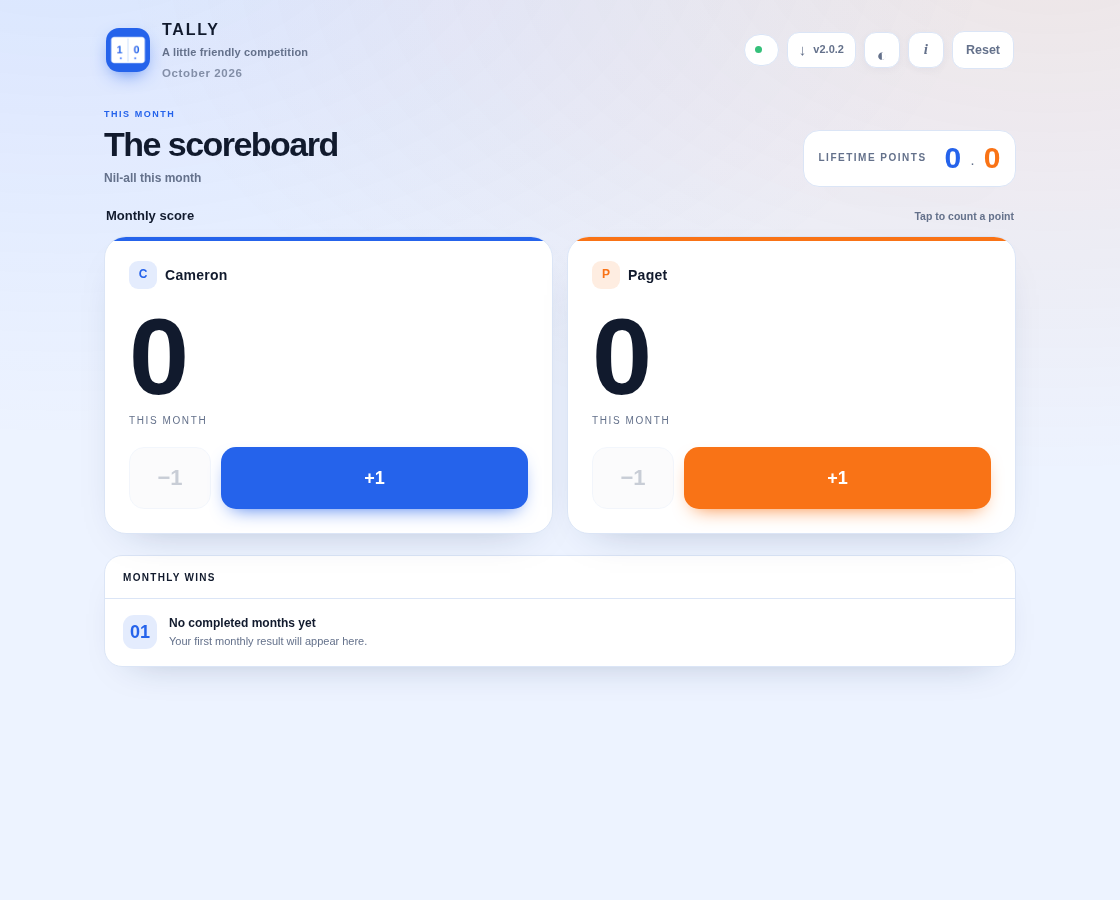
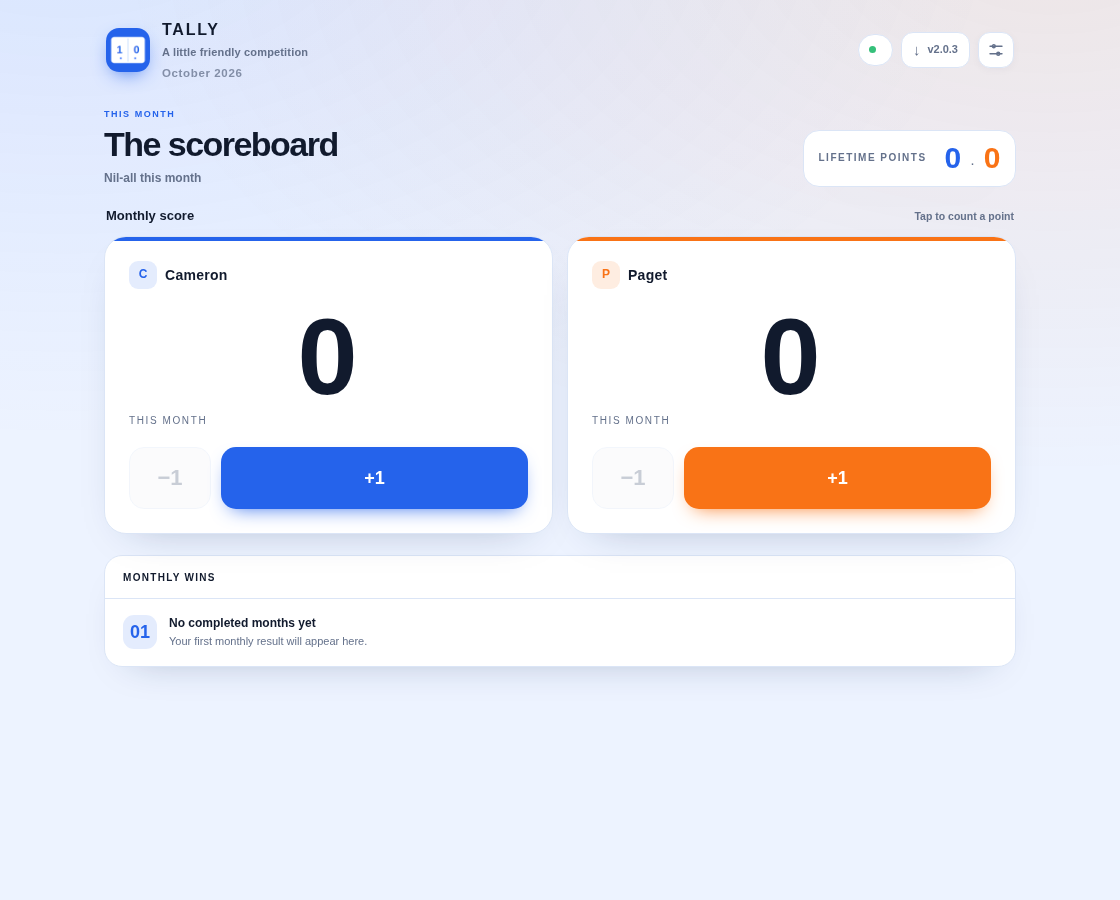
2.0.3: consolidate dashboard settings
Move theme, help, reset, and version into a compact settings popout. Use
centered SVG theme icons and center the scoreboard numerals with light spacing.
Refresh the interface screenshots and document the settings menu.

diff --git a/server.py b/server.py
@@ -14,7 +14,7 @@ PORT = int(os.environ.get("TALLY_PORT", "8080"))
 PLAYERS = ("cameron", "paget")
 LABELS = {"cameron": "Cameron", "paget": "Paget"}
 
-APP_VERSION = "2.0.2"
+APP_VERSION = "2.0.3"
 UPDATE_REPO = "Boldestfutura/Tally"
 UPDATE_BRANCH = "main"
 UPDATE_DIR = os.path.dirname(DATA) or "."
@@ -566,14 +566,40 @@ PAGE = """<!doctype html>
   .mrow.draw .win{color:var(--muted);background:var(--faint)}
   .hist-empty{padding:16px 15px;color:var(--muted);font-size:13px;text-align:center}
 
-  .iconbtn{flex:0 0 auto;width:30px;height:30px;padding:0;border-radius:50%;
-           font-size:14px;font-weight:700;font-style:italic;font-family:Georgia,serif;
-           color:var(--muted);background:var(--faint);border-color:var(--card-brd);
-           display:flex;align-items:center;justify-content:center;line-height:1}
-  .iconbtn:hover{color:var(--ink)}
-  .reset{flex:0 0 auto;font-size:12.5px;font-weight:600;padding:8px 14px;border-radius:11px;
-         color:var(--muted);background:var(--faint);border-color:var(--card-brd)}
-  .reset:hover{background:var(--faint);color:var(--ink);filter:brightness(.97)}
+   .settings-wrap{position:relative;flex:0 0 auto}
+   .settings-trigger{display:grid;place-items:center;width:36px;height:36px;padding:0;
+          border:1px solid var(--card-brd);border-radius:12px;background:var(--card);
+          color:var(--muted);box-shadow:0 2px 8px rgba(18,38,74,.04)}
+   .settings-trigger svg{display:block;width:18px;height:18px;stroke:currentColor;stroke-width:1.8;
+          stroke-linecap:round;stroke-linejoin:round;fill:none}
+   .settings-trigger:hover{color:var(--a);border-color:var(--ring)}
+   .settings-popout{position:absolute;top:calc(100% + 9px);right:0;z-index:30;
+          width:min(252px,calc(100vw - 32px));padding:11px;
+          border:1px solid var(--card-brd);border-radius:16px;background:var(--card);
+          box-shadow:0 18px 42px -18px rgba(0,0,0,.38);
+          -webkit-backdrop-filter:blur(24px) saturate(140%);backdrop-filter:blur(24px) saturate(140%);
+          animation:rise .16s ease-out}
+   .settings-head{display:flex;align-items:center;justify-content:space-between;gap:10px;
+          padding:3px 4px 10px}
+   .settings-head b{font-size:13px;font-weight:800}
+   .settings-version{font-size:10px;font-weight:700;letter-spacing:.04em;color:var(--muted);
+          font-variant-numeric:tabular-nums}
+   .settings-row{display:flex;align-items:center;justify-content:space-between;gap:12px;
+          padding:7px 4px 9px;color:var(--ink);font-size:12px;font-weight:650}
+   .themebtn{display:grid;place-items:center;width:36px;height:36px;flex:0 0 auto;padding:0;
+          border:1px solid var(--card-brd);border-radius:11px;background:var(--faint);color:var(--muted)}
+   .themebtn:hover{color:var(--a);border-color:var(--ring)}
+   .themebtn svg{display:block;width:18px;height:18px;stroke:currentColor;stroke-width:1.8;
+          stroke-linecap:round;stroke-linejoin:round;fill:none}
+   .settings-divider{height:1px;margin:2px 0 6px;background:var(--card-brd)}
+   .settings-action{display:flex;align-items:center;gap:10px;width:100%;min-height:40px;
+          padding:0 8px;border:0;border-radius:10px;background:transparent;color:var(--ink);
+          text-align:left;font-size:12px;font-weight:650}
+   .settings-action:hover{background:var(--faint);color:var(--a)}
+   .settings-action svg{width:17px;height:17px;flex:0 0 auto;stroke:currentColor;stroke-width:1.8;
+          stroke-linecap:round;stroke-linejoin:round;fill:none}
+   .settings-action.reset{color:var(--muted)}
+   .settings-action.reset:hover{color:var(--a)}
 
   [hidden]{display:none !important}
   .scrim{
@@ -649,12 +675,7 @@ PAGE = """<!doctype html>
   .h-right{gap:8px}
   .sync{padding:7px 10px;border:1px solid var(--card-brd);border-radius:999px;
         background:var(--card);font-size:11px;font-weight:650;min-height:32px}
-  .iconbtn,.themebtn{width:36px;height:36px;border:1px solid var(--card-brd);border-radius:12px;
-        background:var(--card);color:var(--muted);box-shadow:0 2px 8px rgba(18,38,74,.04)}
-  .iconbtn{font-size:15px}
-  .themebtn{font-size:17px;line-height:1}
-  .reset{padding:9px 13px;border:1px solid var(--card-brd);border-radius:12px;
-         background:var(--card);color:var(--muted);font-weight:700}
+   .settings-trigger{width:36px;height:36px}
   .update-btn{display:flex;align-items:center;gap:7px;min-height:36px;padding:0 11px;
               border:1px solid var(--card-brd);border-radius:12px;background:var(--card);
               color:var(--muted);font-size:11px;font-weight:700;white-space:nowrap}
@@ -687,7 +708,8 @@ PAGE = """<!doctype html>
   .name::before{content:attr(data-initial);display:grid;place-items:center;width:28px;height:28px;
                 border-radius:9px;background:var(--accent-soft);color:var(--accent);font-size:12px;
                 font-weight:850;letter-spacing:0}
-  .score{margin:14px 0 3px;font-size:clamp(70px,13vw,108px);font-weight:780;letter-spacing:-.065em}
+   .score{margin:14px 0 3px;font-size:clamp(70px,13vw,108px);font-weight:780;
+          letter-spacing:.02em;text-align:center}
   .pts{margin:0 0 18px;font-size:10px;letter-spacing:.16em;color:var(--muted)}
   .row{gap:10px}
   .row button{min-height:54px;border-radius:15px}
@@ -707,7 +729,7 @@ PAGE = """<!doctype html>
               border-radius:11px;background:var(--a-soft);color:var(--a);font-size:18px;font-weight:800}
   .empty-copy b{display:block;color:var(--ink);font-size:12px}
   .empty-copy span{display:block;margin-top:2px;color:var(--muted);font-size:11px}
-  .iconbtn:hover,.themebtn:hover,.reset:hover,.update-btn:hover{color:var(--a);border-color:var(--ring)}
+   .update-btn:hover{color:var(--a);border-color:var(--ring)}
   .modal{border:1px solid var(--card-brd);border-radius:22px;background:var(--card)}
   .sheet{max-width:440px}
   .m-title{font-size:19px;font-weight:800;letter-spacing:-.02em}
@@ -755,14 +777,39 @@ PAGE = """<!doctype html>
        <p class="period" id="period"></p>
      </div>
     </div>
-    <div class="h-right">
-     <span class="sync" id="sync" title="connection"><span class="dot"></span><span id="syncText"></span></span>
-      <button class="update-btn" id="updates" type="button" aria-label="Tally updates" data-ready="0">
-       <span class="update-glyph" aria-hidden="true">↓</span><span class="update-label" id="updateLabel">Updates</span></button>
-     <button class="themebtn" id="themeToggle" type="button" aria-label="Toggle theme" title="Toggle theme">◐</button>
-     <button class="iconbtn" id="info" type="button" aria-label="How Tally works">i</button>
-     <button class="reset" id="reset" type="button">Reset</button>
-   </div>
+     <div class="h-right">
+      <span class="sync" id="sync" title="connection"><span class="dot"></span><span id="syncText"></span></span>
+       <button class="update-btn" id="updates" type="button" aria-label="Tally updates" data-ready="0">
+        <span class="update-glyph" aria-hidden="true">↓</span><span class="update-label" id="updateLabel">Updates</span></button>
+      <div class="settings-wrap" id="settingsWrap">
+       <button class="settings-trigger" id="settingsToggle" type="button" aria-label="Settings"
+               aria-expanded="false" aria-controls="settingsMenu" title="Settings">
+        <svg viewBox="0 0 24 24" aria-hidden="true"><path d="M4 7h16M4 17h16"/><circle cx="9" cy="7" r="2"/><circle cx="15" cy="17" r="2"/></svg>
+       </button>
+       <div class="settings-popout" id="settingsMenu" hidden>
+        <div class="settings-head"><b>Settings</b><span class="settings-version" id="settingsVersion"></span></div>
+        <div class="settings-row"><span>Appearance</span>
+         <button class="themebtn" id="themeToggle" type="button" role="switch" aria-checked="false" aria-label="Dark mode">
+          <svg id="themeSun" viewBox="0 0 24 24" aria-hidden="true" hidden>
+           <circle cx="12" cy="12" r="3.5"/><path d="M12 2.5v2M12 19.5v2M4.93 4.93l1.42 1.42m11.3 11.3 1.42 1.42M2.5 12h2m15 0h2M4.93 19.07l1.42-1.42m11.3-11.3 1.42-1.42"/>
+          </svg>
+          <svg id="themeMoon" viewBox="0 0 24 24" aria-hidden="true" hidden>
+           <path d="M20.2 15.4A8.6 8.6 0 0 1 8.6 3.8 8.7 8.7 0 1 0 20.2 15.4Z"/>
+          </svg>
+         </button>
+        </div>
+        <div class="settings-divider"></div>
+        <button class="settings-action" id="info" type="button">
+         <svg viewBox="0 0 24 24" aria-hidden="true"><circle cx="12" cy="12" r="9"/><path d="M12 11v5m0-8h.01"/></svg>
+         <span>How Tally works</span>
+        </button>
+        <button class="settings-action reset" id="reset" type="button">
+         <svg viewBox="0 0 24 24" aria-hidden="true"><path d="M3 12a9 9 0 1 0 2.6-6.4L3 8"/><path d="M3 3v5h5"/></svg>
+         <span>Reset this month</span>
+        </button>
+       </div>
+      </div>
+    </div>
   </header>
 
    <div class="overview">
@@ -792,8 +839,7 @@ PAGE = """<!doctype html>
 <div class="scrim" id="infoScrim" hidden>
   <div class="modal sheet" role="dialog" aria-modal="true" aria-labelledby="i-title">
     <p class="m-title" id="i-title">How Tally works</p>
-     <p class="ver" id="infoVersion"></p>
-    <h4>Scoring</h4>
+     <h4>Scoring</h4>
     <ul class="info">
       <li><b>+1</b> gives a point, <b>&minus;1</b> takes one back. Neither side can go below zero.</li>
       <li>The two big numbers are <b>this month only</b>. They reset to 0 by themselves at midnight on the 1st, Melbourne time.</li>
@@ -1490,9 +1536,13 @@ async function installUpdate(){
 }
 
 const themeButton=document.getElementById('themeToggle');
+const themeSun=document.getElementById('themeSun');
+const themeMoon=document.getElementById('themeMoon');
 function setTheme(theme,save){
   document.documentElement.dataset.theme=theme;
-  themeButton.textContent=theme==='dark'?'☀':'◐';
+  themeSun.toggleAttribute('hidden',theme!=='dark');
+  themeMoon.toggleAttribute('hidden',theme==='dark');
+  themeButton.setAttribute('aria-checked',theme==='dark'?'true':'false');
   themeButton.title=theme==='dark'?'Switch to light mode':'Switch to dark mode';
   const color=theme==='dark'?'#090f1d':'#edf3ff';
   document.getElementById('themeLight').content=color;
@@ -1501,14 +1551,33 @@ function setTheme(theme,save){
 }
 let savedTheme='';
 try{ savedTheme=localStorage.getItem('tally.theme.v1')||''; }catch(e){}
-if(savedTheme==='light'||savedTheme==='dark') setTheme(savedTheme,false);
-else themeButton.textContent=(matchMedia('(prefers-color-scheme:dark)').matches?'☀':'◐');
+setTheme(savedTheme==='light'||savedTheme==='dark'?savedTheme:
+  (matchMedia('(prefers-color-scheme:dark)').matches?'dark':'light'),false);
 themeButton.addEventListener('click',()=>{
   const current=document.documentElement.dataset.theme||
     (matchMedia('(prefers-color-scheme:dark)').matches?'dark':'light');
   setTheme(current==='dark'?'light':'dark',true);
 });
-document.getElementById('infoVersion').textContent='Version '+APP_VERSION;
+const settingsWrap=document.getElementById('settingsWrap');
+const settingsToggle=document.getElementById('settingsToggle');
+const settingsMenu=document.getElementById('settingsMenu');
+function closeSettings(returnFocus){
+  settingsMenu.hidden=true;
+  settingsToggle.setAttribute('aria-expanded','false');
+  if(returnFocus) settingsToggle.focus();
+}
+settingsToggle.addEventListener('click',()=>{
+  const opening=settingsMenu.hidden;
+  settingsMenu.hidden=!opening;
+  settingsToggle.setAttribute('aria-expanded',opening?'true':'false');
+});
+document.addEventListener('click',ev=>{
+  if(!settingsMenu.hidden&&!settingsWrap.contains(ev.target)) closeSettings(false);
+});
+document.addEventListener('keydown',ev=>{
+  if(!settingsMenu.hidden&&ev.key==='Escape'){ev.preventDefault();closeSettings(true);}
+});
+document.getElementById('settingsVersion').textContent='Version '+APP_VERSION;
 updateButton.addEventListener('click',()=>{
   updateScrim.hidden=false; refreshUpdateStatus(); updateCheckButton.focus();
 });
@@ -1538,16 +1607,16 @@ function closeAsk(){
   if(lastFocus && lastFocus.focus) lastFocus.focus();
 }
 
-resetBtn.addEventListener('click',openAsk);
+resetBtn.addEventListener('click',()=>{closeSettings(false);settingsToggle.focus();openAsk();});
 
 const infoScrim=document.getElementById('infoScrim');
 const infoBtn=document.getElementById('info');
 const infoClose=document.getElementById('i-close');
-infoBtn.addEventListener('click',()=>{ infoScrim.hidden=false; infoClose.focus(); });
-infoClose.addEventListener('click',()=>{ infoScrim.hidden=true; infoBtn.focus(); });
-infoScrim.addEventListener('click',ev=>{ if(ev.target===infoScrim){ infoScrim.hidden=true; infoBtn.focus(); } });
+infoBtn.addEventListener('click',()=>{ closeSettings(false); infoScrim.hidden=false; infoClose.focus(); });
+infoClose.addEventListener('click',()=>{ infoScrim.hidden=true; settingsToggle.focus(); });
+infoScrim.addEventListener('click',ev=>{ if(ev.target===infoScrim){ infoScrim.hidden=true; settingsToggle.focus(); } });
 document.addEventListener('keydown',ev=>{
-  if(!infoScrim.hidden && ev.key==='Escape'){ infoScrim.hidden=true; infoBtn.focus(); }
+  if(!infoScrim.hidden && ev.key==='Escape'){ infoScrim.hidden=true; settingsToggle.focus(); }
 });
 noBtn.addEventListener('click',closeAsk);
 yesBtn.addEventListener('click',()=>{ closeAsk(); buzz([10,40,10]); post('/api/reset'); });

diff --git a/README.md b/README.md
@@ -16,6 +16,8 @@ orange accents so scores are easy to tell apart.
 
 ![Tally dashboard, light desktop](docs/tally-dashboard.png)
 
+![Tally settings popout](docs/tally-settings.png)
+
 | Phone, light | Phone, dark |
 |:--:|:--:|
 | ![Tally phone light](docs/tally-phone-light.png) | ![Tally phone dark](docs/tally-phone-dark.png) |
